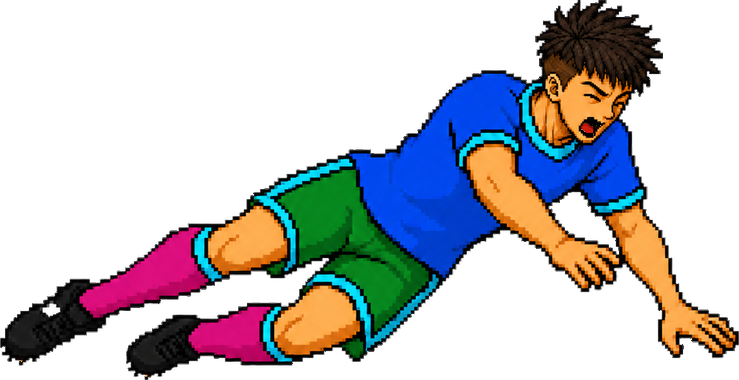
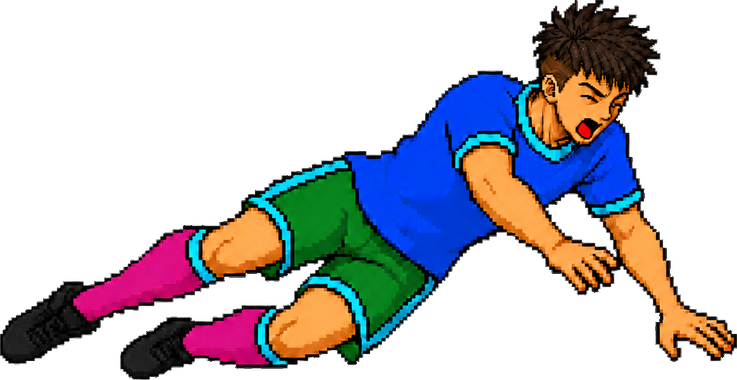
feat(foul): 転倒スプライトをChatGPT再生成版へ差し替え＝口を仕様どおり描かせる（lab限定）
ユーザー判断で「私が原画を局所加工して口を直す」のをやめ、ChatGPTに口込みで描き直させた。
- 経緯: 局所加工は4連敗（歯を白く→輪郭が消えて口が白い塊化／歯を黒く→素肌に黒点／
  距離で塗り分け→インク破断）。根本原因は、ユーザーの仕様が出力空間(口=実寸9.6x8.9px)の
  ものなのに制御点がnative側にあり、間に「MangaRecolor色相リカラー→34%バイリニア」の
  2段ロッシー変換が挟まる＝逆問題を手探りで解いていたこと
- 転換: 「口は34%で9x9pxに潰れる。細部は消えるから大胆に単純化しろ」という**解像度の制約を
  プロンプトに明記**して生成側で解いた。結果、歯なし/細い輪郭/赤ベロ/黒い口の中を満たす
  原画が返り、**私の局所加工は一切不要になった**（実行ログ mouth_rebuilt=0px＝歯が無く加工が発生せず）
- 差分: ベロ面積 92→129px(+40%)。実寸34%で「開いた口＋鮮赤のベロ」が明確に読める（旧版は濁った暗い塊）
- 副産物: 足先のギザギザ整形（ユーザー依頼）＋旧版の遠側ブーツの白斑が消失

寸法 739x380 → 737x380（幅-2px）だがシーン調整は不要。_renderFoulDownScene は
`dw = spr.width * (ph/spr.height)` でアスペクト比から実行時導出しており幅ハードコードなし
＝描画幅の差は0.68px・接地は高さ380不変のため構造的に一致・contactXも自動追従（asset-qa検証）。

process_tumble.py は SRC と MOUTH_BOX を新原画へ更新（他は不変）。
asset-qa PASS: シルエットIoU 0.937・四肢/スパイク切断なし・髪のshirt窓混入0px・
白マットハロー0px・socks窓8199(基準8066前後で無傷)・白/緑/赤ソックス3キットでベロのRGBが
ビット一致＝チーム色に汚染されない。アセット差し替えのため ?v=f4 → f7 へbump。

diff --git a/_scene_lab.html b/_scene_lab.html
@@ -71,14 +71,14 @@ label.chk{display:inline-flex;gap:6px;align-items:center;min-height:44px;cursor:
   </div>
 </div>
 
-<script src="js/players.js?v=lab21"></script>
-<script src="js/rng.js?v=lab21"></script>
-<script src="js/events.js?v=lab21"></script>
-<script src="js/simulate.js?v=lab21"></script>
-<script src="js/match.js?v=lab21"></script>
-<script src="js/portrait.js?v=lab21"></script>
-<script src="js/manga_recolor.js?v=lab21"></script>
-<script src="js/cutscene.js?v=lab21"></script>
+<script src="js/players.js?v=lab24"></script>
+<script src="js/rng.js?v=lab24"></script>
+<script src="js/events.js?v=lab24"></script>
+<script src="js/simulate.js?v=lab24"></script>
+<script src="js/match.js?v=lab24"></script>
+<script src="js/portrait.js?v=lab24"></script>
+<script src="js/manga_recolor.js?v=lab24"></script>
+<script src="js/cutscene.js?v=lab24"></script>
 <script>
 var KEYS=[['belgium2026','ベルギー'],['england2026','イングランド'],['brazil2026','ブラジル'],['spain2026','スペイン'],['france2026','フランス'],['argentina2026','アルゼンチン'],['germany2026','ドイツ'],['netherlands2026','オランダ']];
 var atk=document.getElementById('atk'),def=document.getElementById('def');

diff --git a/js/cutscene.js b/js/cutscene.js
@@ -2874,7 +2874,7 @@ var _MANGA_FOUL_ATK_DIR = 'img/cutscenes/manga_foul_atk/';
 //   f4 = 2026-07-17 口を「輪郭・赤ベロ・黒い口の中」の3要素へ再構成（ユーザー方針）。
 //        ゲーム描画は native380→130px＝34%縮小で口全体が約9.6×8.9px・歯は約4×2px＝描き分け不能。
 //        歯を捨てて「口が開いている」ことの提示に振ったほうが実寸で明確に読める。
-var _MANGA_FOUL_ATK_V = '?v=f4';
+var _MANGA_FOUL_ATK_V = '?v=f7';
 
 // ①削り: 守備選手単独のスライディングチャレンジ（manga_tackle_slide/<hstyle>.png流用・新規アセット不要）。
 function _renderFoulTackleScene(sc) {

diff --git a/tools/proto/process_tumble.py b/tools/proto/process_tumble.py
@@ -14,13 +14,13 @@ from PIL import Image
 import colorsys
 import process_header_rise2 as P
 
-SRC = os.path.expanduser('~/Downloads/ChatGPT Image 2026年7月16日 18_23_01.png')
+SRC = os.path.expanduser('~/Downloads/ChatGPT Image 2026年7月17日 16_53_32.png')
 OUT = 'img/cutscenes/manga_foul_atk/wavy.png'
 SP = '/private/tmp/claude-501/-Users-iwasakimitsuru/dedf9791-510a-4d65-b825-eee2aae84067/scratchpad'
 TARGET_H = 380   # 現行 wavy.png (737x380) と同スケール
 
 # 口領域（原画1254px座標・実測ベロ x959-978 y419-435 に余白）
-MOUTH_BOX = (935, 395, 1005, 460)   # l, t, r, b
+MOUTH_BOX = (940, 400, 1000, 460)   # l, t, r, b（新原画2026-07-17: 実測ベロ x960-979 y417-440 に余白）
 
 
 def fill_enclosed_bg(a, min_px=4000):
